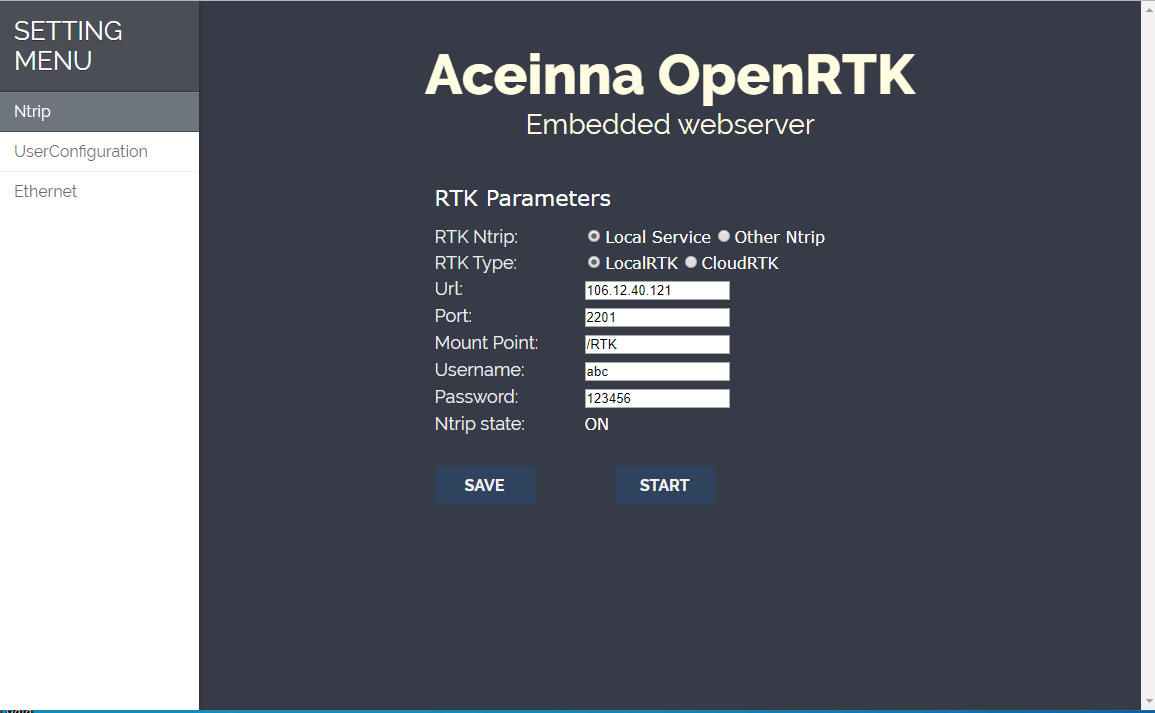
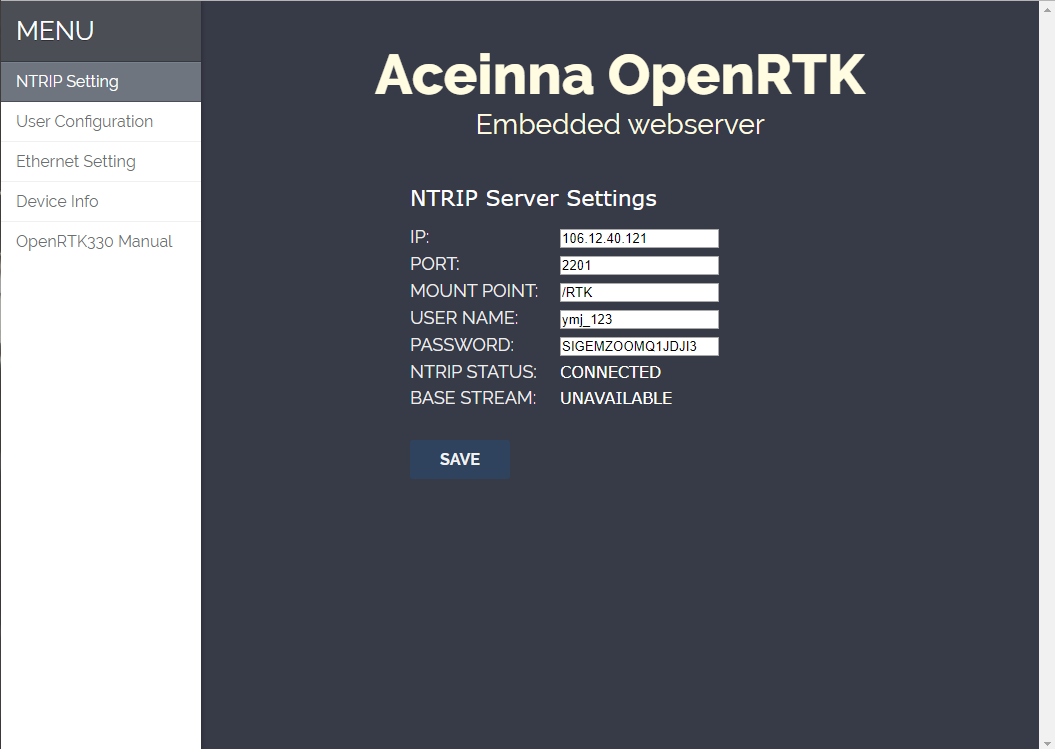
add openRTK pic and change PC doc.

diff --git a/useOpenRTK/PC.rst b/useOpenRTK/PC.rst
@@ -59,18 +59,16 @@ Configuration
 
  **1. Ntrip Configuration**.
 
-  - *RTK Ntrip*: If you choose Local Service, ntrip client will use
-    username and apikey in login. Otherwise, ntrip client will use
-    username and password in ntripcfg.
-  - *RTK Type*: 
+  - *IP*: NTRIP server ip, it can be ip like "106.12.40.121", or be the hostname like "rtk.aceinna.com".
+  - *PORT*: NTRIP server port.
+  - *MOUNT POINT*: NTRIP mount point, if you use Aceinna Cloud Server, it will be "/RTK".
+  - *USER NAME*: If you use Aceinna Cloud Server, it will be the user name.
+  - *PASSWORD*: If you use Aceinna Cloud Server, it will be the Apikey.
+  - *NTRIP STATUS*: CONNECTET/DISCONNECTED: indication of ntrip connection status.
+  - *BSAE STREAM*: AVAILABLE/UNAVAILABLE: indication of base rtcm stream.
 
-        - LocalRTK: get NEMA(GPGGA) from device, get RTCM from Aceinna server. 
-        - cloudRTK: get RTCM from device, get NEMA(GPGGA) from Aceinna server.
-  - *Ntrip state*:
-
-        - ON: etnernet ntrip on, forbid bluetooth rtcm from mobile.
-        - OFF: ethernet ntrip off, allow bluetooth rtcm from mobile.
-          state can be controlled by 'START' button.
+  You can click 'SAVE', if the NTRIP STATUS is CONNECTED, it will be effective next time. So, you should 
+  reconnect the network or restart the OpenRTK board.
 
   .. image:: ../media/ntripcfg.png
      :align: center
@@ -86,12 +84,23 @@ Configuration
 
  **3. Ethernet Configuration**.
 
-    -  *IP mode*: static ip or dhcp ip,if dhcp fail, it will use static ip.
-    -  *Static ip*: include ip, netmask and gateway.
-    -  *RESTART*: if dhcp over and fail, you can click "RESTART" to restart
-       DHCP.
+    -  *MAC*: It can be modified in the code, the last three bytes is the CPU's device ID.
+    -  *MODE*: 
+
+         - *DHCP mode*: it will do dhcp util success. 
+         - *STATIC IP*: STATIC NETMASK and STATIC GATEWAY. You should config the same gateway of your net device and config a free ip.
+
+    You can click 'SAVE' to let the configuration be effective immediately. If the NTRIP STATUS is CONNECTED, it will reconnect immediately.
 
     .. image:: ../media/ethcfg.png
+       :align: center
+       :scale: 50%
+
+ **4. Device Info**
+
+    You can see all the device infomation.
+
+    .. image:: ../media/deviceinfo.png
        :align: center
        :scale: 50%
 

diff --git a/useOpenRTK/APP.rst b/useOpenRTK/APP.rst
@@ -11,7 +11,7 @@ Installation and initialization
 
  ::
 
- 1. You can scan the QR code to download, or `download app form here <https://developers.aceinna.com/static/appDownload.html/>`__. Currently only the android version and make sure
+ 1. You can scan the QR code to download, or `download app from here <https://developers.aceinna.com/static/appDownload.html/>`__. Currently only the android version and make sure
     your Android version is 8.0 or above.
 
  .. image:: ../media/ercode.png

diff --git a/index.rst b/index.rst
@@ -1,11 +1,7 @@
 OpenRTK Developer Manual
 ========================
 
-.. note::
-
-    OpenRTKbox.png to be provided.
-
-.. image:: media/OpenIMU.png
+.. image:: media/OpenRTK.png
    :align: center
    :scale: 50%
 
